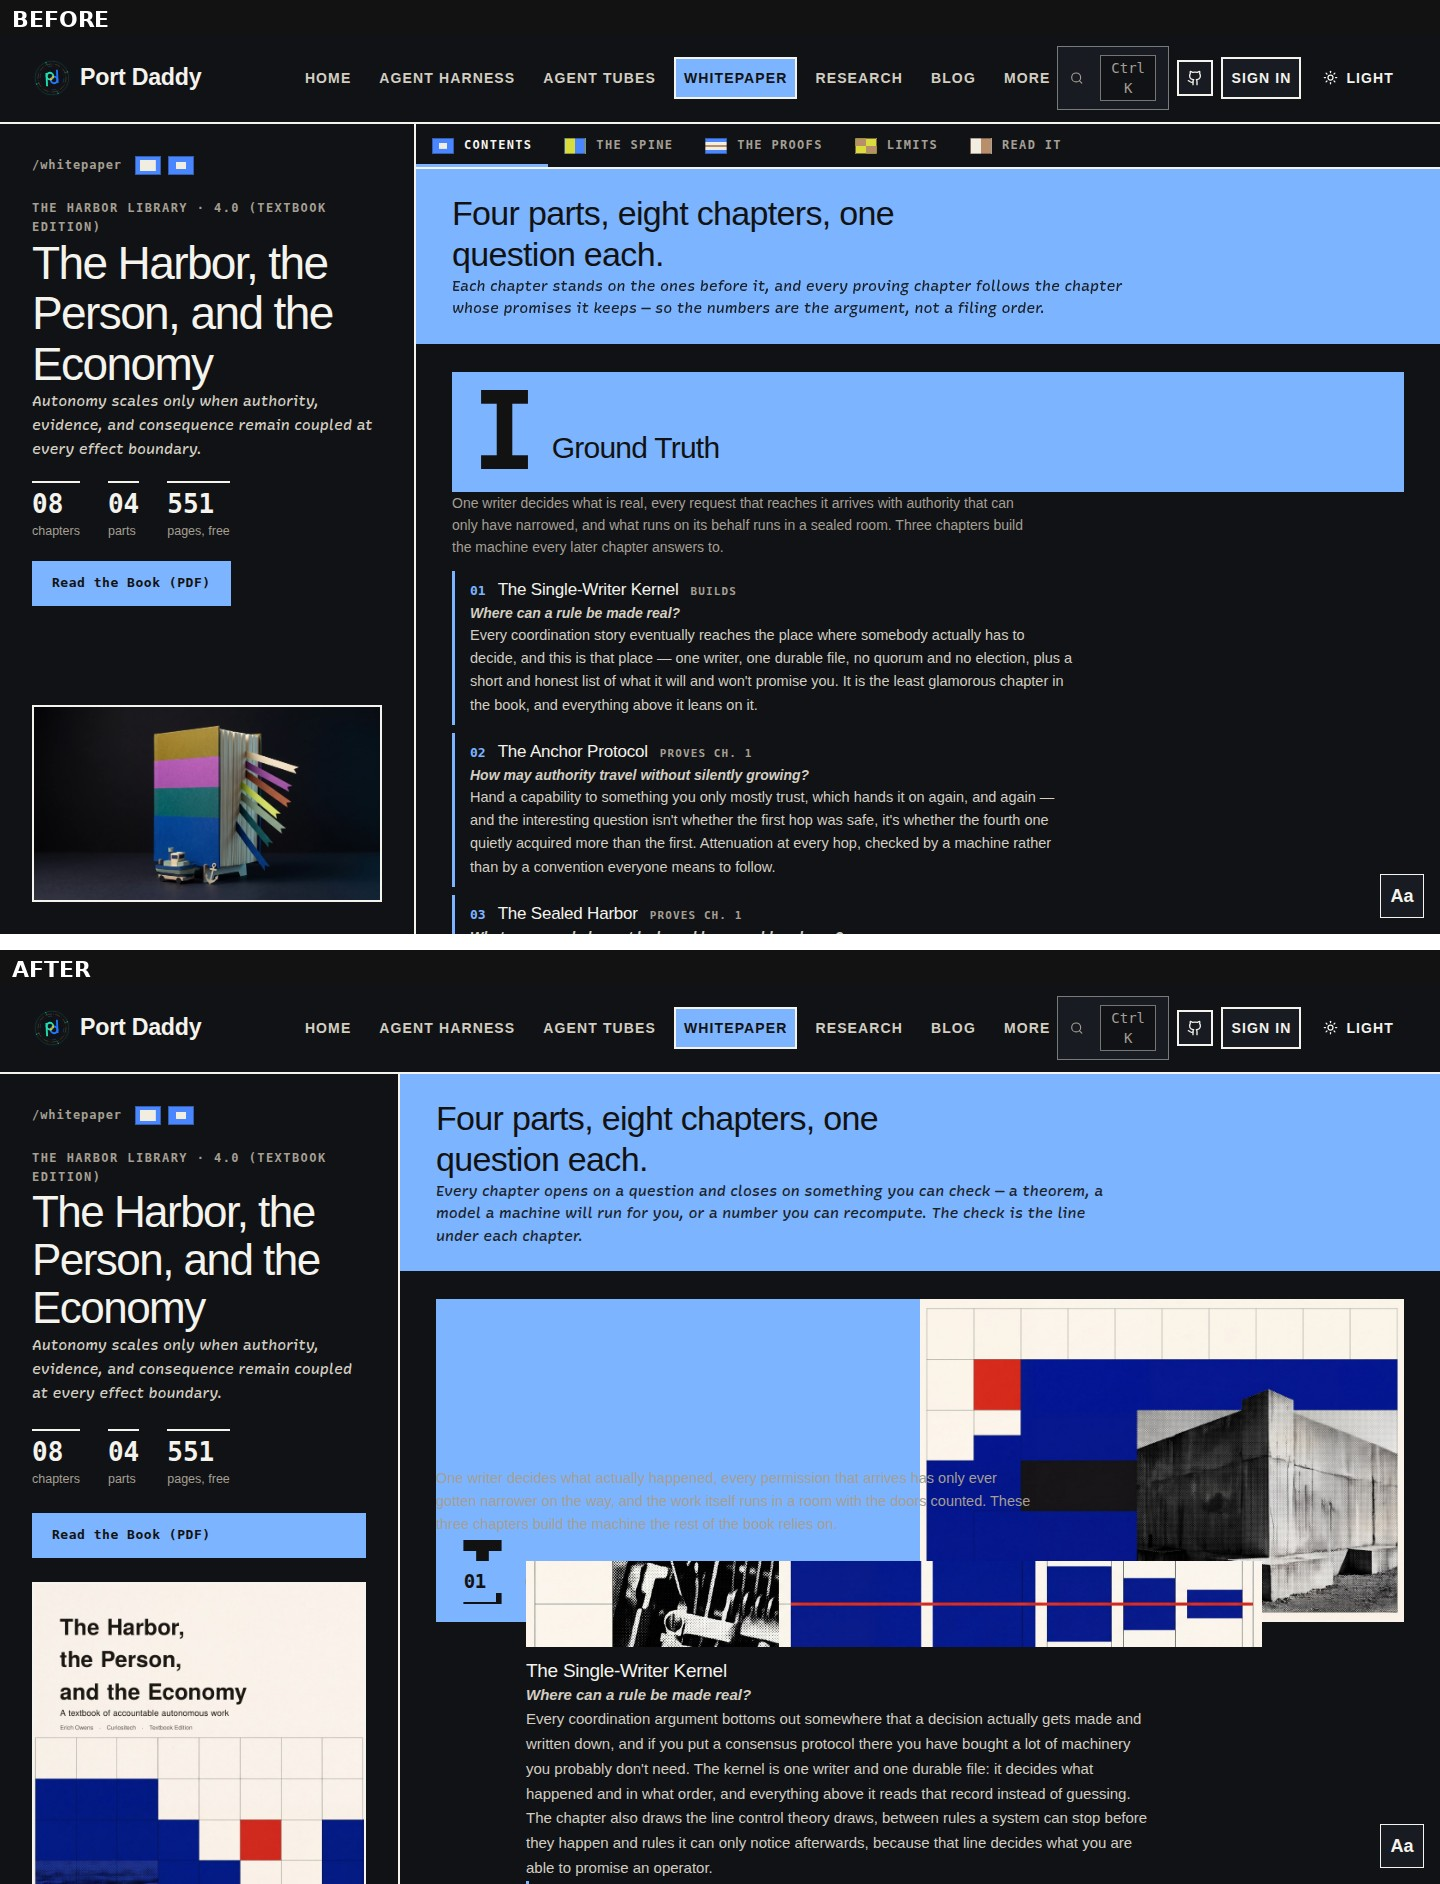
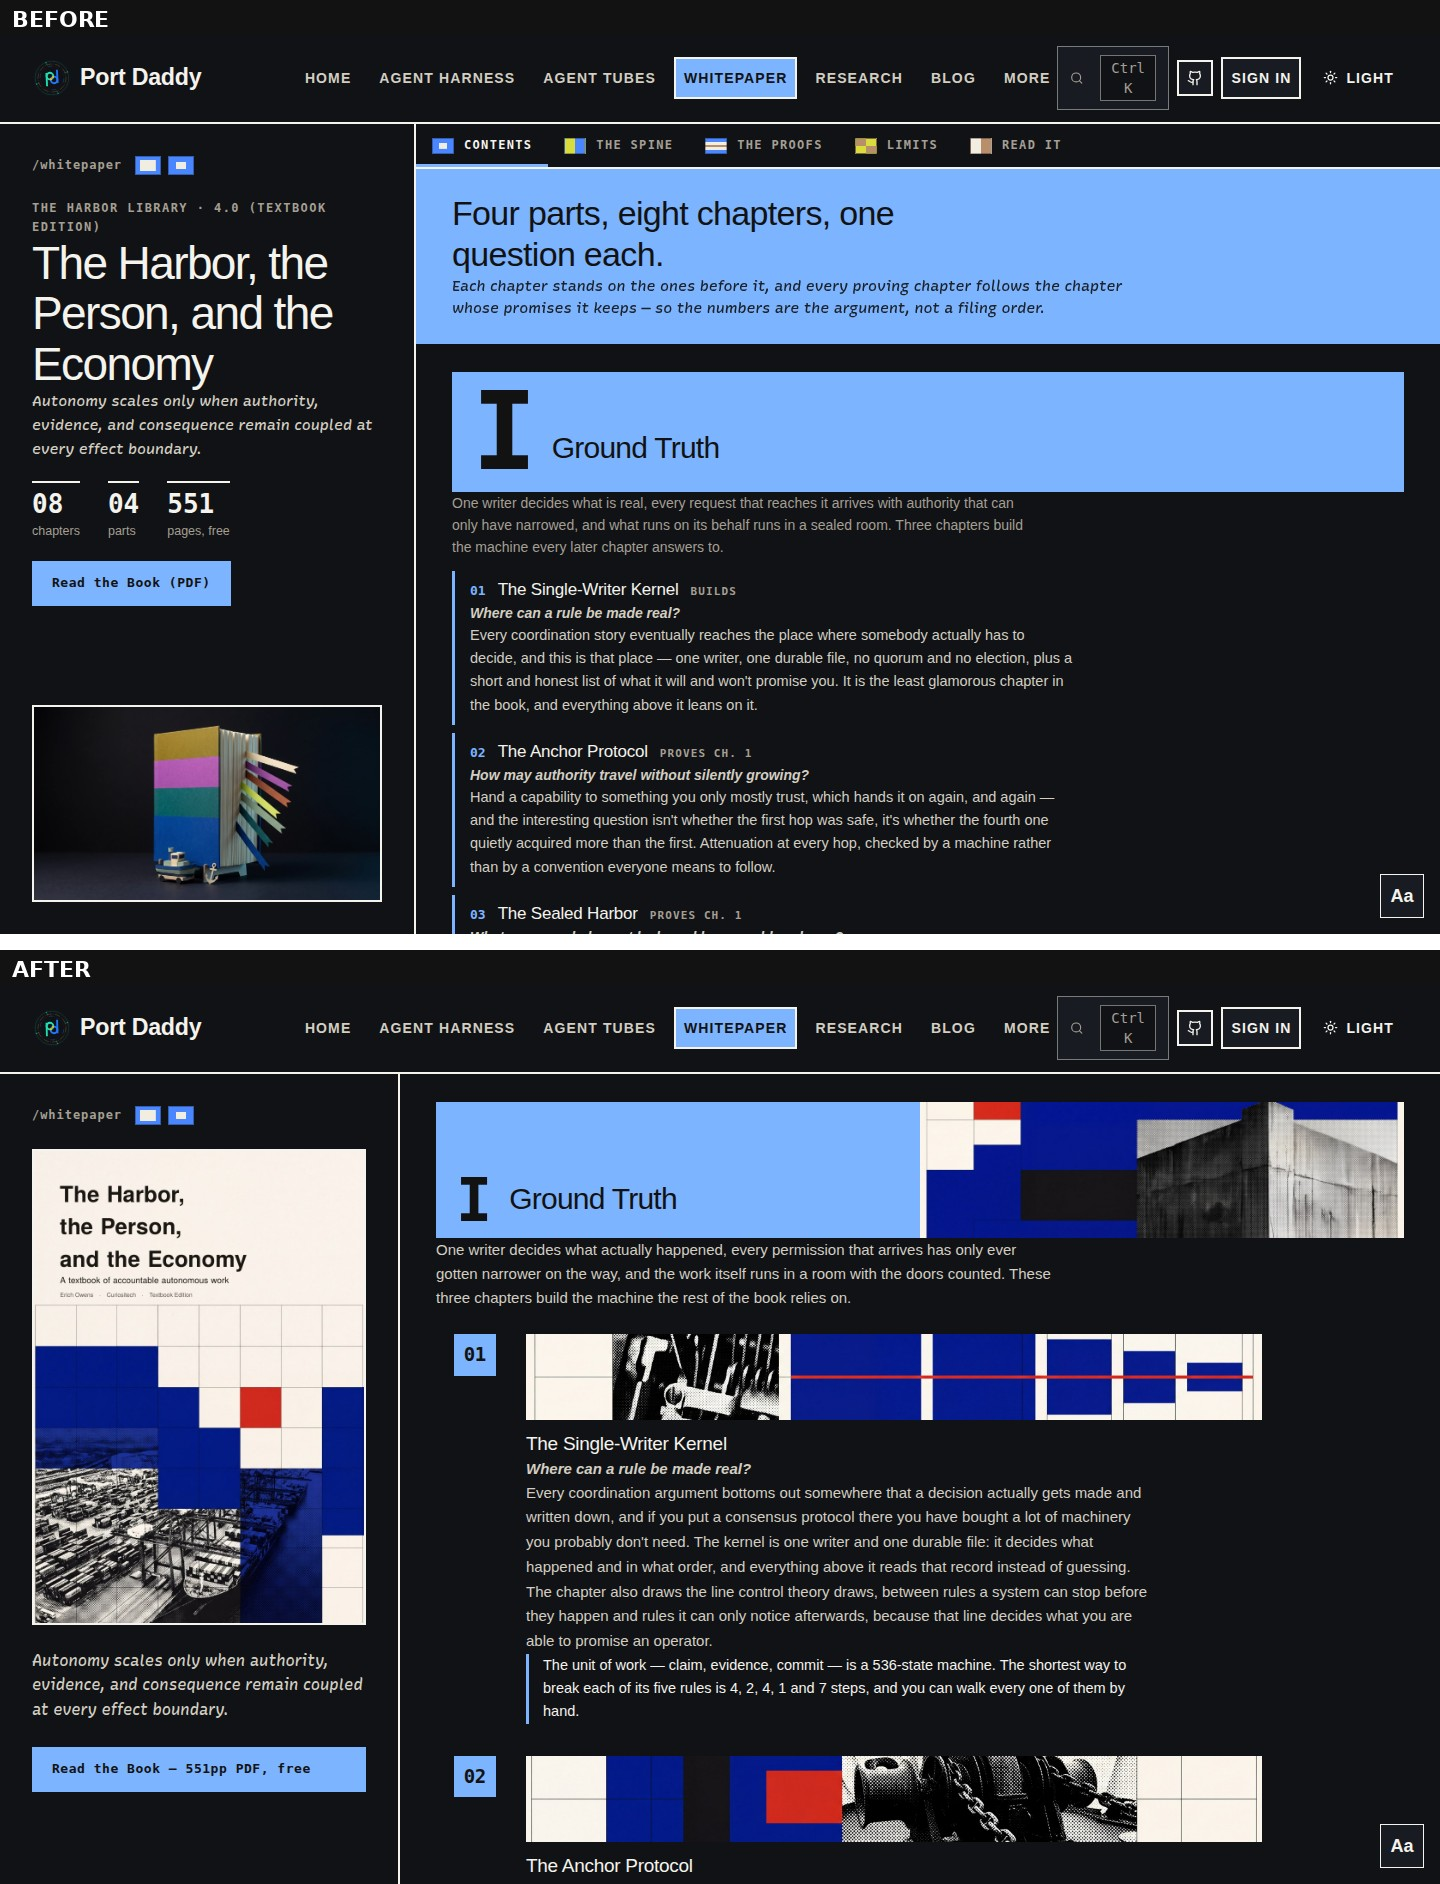
fix(site): the cover says the title, so the page stops saying it too
Three problems, all of them mine, all visible in the screenshot I posted
on the PR without looking at it.

The band overflowed. Capping the part row at a fixed 168px did not clip
its contents -- the slab's numeral and title spilled out the bottom and
painted over the part blurb underneath, in a colour chosen for a dark
ground. The plate is capped now and the slab sets the row's height, which
is the shape that worked before I "tightened" it.

The blurb was --text-muted, which on the dark ground is barely present
even when nothing is painted over it. It is --text-secondary, the body
tone, like every other paragraph on the page.

And the page was repeating itself. The masthead set the title, the
subtitle and the edition in type directly beside a cover that carries all
three in type already; the right pane opened with a headline counting the
parts the outline was about to list, over a paragraph explaining what a
chapter is. A count of parts is not a reason to read anything and the
outline shows it anyway. So: the cover IS the title, the claim and the
download stay, and the outline starts at the outline. The eyebrow, the
duplicate h1, the chapters/parts/pages counters and the format explainer
are gone.

The download button was also mt-auto'd to the foot of a scrolling column,
which put the one thing to do below the fold. It sits under the claim.

Also moves book-cover.jpg out of plates/ and beside the PDF it is
[…]

Changed region(s): [[0.0, 0.5541, 1.0, 1.0]]

diff --git a/website-v2/src/pages/whitepaper/index.tsx b/website-v2/src/pages/whitepaper/index.tsx
@@ -1,4 +1,4 @@
-import { Eyebrow, Slab } from '@/components/swiss'
+import { Slab } from '@/components/swiss'
 import {
   chapterRecordFor,
   COLLECTED_VOLUME,
@@ -91,8 +91,13 @@ export default function WhitepaperPage() {
     <main id="main-content">
       <div className="flex flex-col overflow-hidden bg-[var(--surface-base)] lg:h-[100dvh]">
         <div className="grid min-h-0 flex-1 grid-cols-1 lg:grid-cols-[minmax(0,25rem)_minmax(0,1fr)]">
-          {/* The masthead never moves: title, claim, the three numbers, the
-              one thing to do, and the cover. */}
+          {/* The masthead. The cover IS the title -- it carries the title,
+              the subtitle and the author in type already, so setting them
+              again beside it was the same words twice. What is left is the
+              cover, the one sentence the Book argues, and the thing to do.
+              The edition eyebrow and the chapters/parts/pages counters went
+              with the duplicate title: a count of parts is not a reason to
+              read anything, and the outline on the right shows both. */}
           <div className="flex min-h-0 flex-col gap-6 overflow-y-auto border-b-2 border-[var(--border-strong)] px-6 py-6 lg:border-b-0 lg:border-r-2 lg:px-8 lg:py-8">
             <div className="slug-hoist" aria-hidden="true">
               <span className="route">/whitepaper</span>
@@ -100,71 +105,36 @@ export default function WhitepaperPage() {
               <i className="fl fl-papa" />
             </div>
 
-            <div>
-              <Eyebrow>The Harbor Library · {TEXTBOOK.edition.version}</Eyebrow>
-              <h1 className="mt-2 max-w-[17ch] text-[clamp(30px,3.2vw,44px)] font-bold leading-[1.04] tracking-[-0.035em] text-[var(--text-primary)]">
-                {TEXTBOOK.edition.title}
-              </h1>
-              <p className="deck-voice mt-3 max-w-[44ch] text-[15px] leading-[1.6] text-[var(--text-secondary)]">
-                {TEXTBOOK.edition.claim}
-              </p>
-            </div>
+            {/* Page 1 of the committed PDF, rendered by
+                scripts/render-book-cover.mjs. One image in both themes on
+                purpose: a cover is an object, and inverting it for dark mode
+                would show a book that does not exist. */}
+            <img
+              className="block h-auto w-full border-2 border-[var(--border-strong)]"
+              src="/whitepaper/book-cover.jpg"
+              width={770}
+              height={1100}
+              alt={`${TEXTBOOK.edition.title}: ${TEXTBOOK.edition.subtitle}. The title set in grotesk over a container terminal in halftone, cut into a blue and red modular grid.`}
+              loading="eager"
+              decoding="async"
+            />
 
-            <div className="flex flex-wrap gap-x-7 gap-y-3">
-              {[
-                { n: String(TEXTBOOK.chapters.length).padStart(2, '0'), l: 'chapters' },
-                { n: String(TEXTBOOK.parts.length).padStart(2, '0'), l: 'parts' },
-                { n: String(COLLECTED_VOLUME.pages), l: 'pages, free' },
-              ].map((stat) => (
-                <div key={stat.l} className="border-t-2 border-[var(--border-strong)] pt-2">
-                  <div className="font-mono text-[26px] font-bold leading-none text-[var(--text-primary)]">
-                    {stat.n}
-                  </div>
-                  <div className="mt-1 text-[12.5px] text-[var(--text-muted)]">{stat.l}</div>
-                </div>
-              ))}
-            </div>
+            <p className="deck-voice max-w-[42ch] text-[15.5px] leading-[1.6] text-[var(--text-secondary)]">
+              {TEXTBOOK.edition.claim}
+            </p>
 
             <a
               href={COLLECTED_VOLUME.downloadUrl}
               className="inline-block bg-[var(--brand-primary)] px-5 py-3 font-mono text-[13px] font-bold tracking-[0.04em] text-[var(--brand-primary-foreground)] no-underline"
             >
-              Read the Book (PDF)
+              Read the Book — {COLLECTED_VOLUME.pages}pp PDF, free
             </a>
-
-            {/* The cover is page 1 of the committed PDF, rendered by
-                scripts/render-book-cover.mjs. It is one image in both themes
-                on purpose: a cover is a physical object, and inverting it for
-                dark mode would be showing a book that does not exist. */}
-            <figure className="mt-auto border-2 border-[var(--border-strong)]">
-              <img
-                className="block h-auto w-full"
-                src="/whitepaper/plates/book-cover.jpg"
-                width={770}
-                height={1100}
-                alt="The cover: the title set in grotesk over a container terminal in halftone, cut into a blue and red modular grid."
-                loading="lazy"
-                decoding="async"
-              />
-            </figure>
           </div>
 
-          {/* The outline. One head, then everything, and only this scrolls. */}
+          {/* The outline. No head block: it carried a headline counting the
+              parts and a paragraph explaining what a chapter is, and the
+              outline underneath says both by existing. Only this scrolls. */}
           <div className="flex min-h-0 flex-col">
-            <div
-              className="on-block shrink-0 px-6 py-5 lg:px-9 lg:py-6"
-              style={{ background: 'var(--brand-primary)', color: 'var(--brand-primary-foreground)' }}
-            >
-              <h2 className="max-w-[24ch] text-[clamp(22px,2.4vw,34px)] font-bold leading-[1.08] tracking-[-0.02em]">
-                Four parts, eight chapters, one question each.
-              </h2>
-              <p className="deck-voice mt-2 max-w-[64ch] text-[15px] leading-[1.5] opacity-90">
-                Every chapter opens on a question and closes on something you can check —
-                a theorem, a model a machine will run for you, or a number you can
-                recompute. The check is the line under each chapter.
-              </p>
-            </div>
-
             <div className="min-h-0 flex-1 overflow-y-auto px-6 py-6 lg:px-9 lg:py-7">
               <div className="space-y-8">
                 {TABLE_OF_CONTENTS.map((part) => (
@@ -178,9 +148,9 @@ export default function WhitepaperPage() {
                         as one band rather than an image next to a heading.
                         Below 900px the plate goes: at that width it would be a
                         70px letterbox, which is showing nothing. */}
-                    <div className="grid h-[168px] items-stretch md:grid-cols-2">
+                    <div className="grid items-stretch md:grid-cols-2">
                       <Slab slug={part.slug} className="grid grid-cols-[auto_1fr] items-end gap-x-5 px-5 py-4">
-                        <span className="font-mono text-[clamp(52px,7vw,88px)] font-bold leading-[0.74] tracking-[-0.05em]">
+                        <span className="font-mono text-[clamp(40px,4.6vw,60px)] font-bold leading-[0.74] tracking-[-0.05em]">
                           {part.numeral}
                         </span>
                         <h2 className="pb-[0.18em] text-[clamp(20px,2.6vw,30px)] font-bold leading-[1.02] tracking-[-0.025em]">
@@ -193,10 +163,10 @@ export default function WhitepaperPage() {
                         aria-hidden="true"
                         loading="lazy"
                         decoding="async"
-                        className="hidden h-full w-full object-cover md:block"
+                        className="hidden h-full max-h-[136px] w-full object-cover md:block"
                       />
                     </div>
-                    <p className="mt-3 max-w-[76ch] text-[14.5px] leading-[1.6] text-[var(--text-muted)]">
+                    <p className="mt-3 max-w-[76ch] text-[15px] leading-[1.6] text-[var(--text-secondary)]">
                       {part.blurb}
                     </p>
                     <div className="mt-2">

diff --git a/website-v2/src/components/landing/LibraryBanner.tsx b/website-v2/src/components/landing/LibraryBanner.tsx
@@ -26,7 +26,7 @@ export function LibraryBanner() {
       <PageContainer width="wide">
         <div className="flex items-center gap-4 py-2">
           <img
-            src="/whitepaper/plates/book-cover.jpg"
+            src="/whitepaper/book-cover.jpg"
             width={770}
             height={1100}
             loading="lazy"

diff --git a/changelog.d/10141-swiss-design-system-lift.md b/changelog.d/10141-swiss-design-system-lift.md
@@ -3,4 +3,4 @@ type: changed
 - **The Swiss visual system moves from `/whitepaper` into the design system, so any page can use it.** Three primitives — `Slab` (a flat block of a part's ink carrying paper-coloured content), `PartNumeral` (the oversized chapter-numeral device), and `Eyebrow` (the small-caps label) — now live in `website-v2/src/components/swiss/`, and the role-layer tokens they read (`--part-machine`, `--part-operator`, `--part-person`, `--part-market`, each with a paper-coloured `-on` pair) join `tokens.roles.css`, named by what the part means rather than by the Book's LaTeX colour name. The page's own `PART_INK` lookup table — mapping `pdcobalt`/`pdteal`/`pdviolet`/`pdgold` to a token pair — is deleted rather than moved: `whitepaper/textbook.json` gains a `slug` field on every part (validated by `generate-mega-whitepaper.mjs` as a unique lowercase word), so a surface derives a part's ink mechanically as `var(--part-${slug})` with nothing left to drift. `/whitepaper` renders unchanged in both themes.
 - **The part role layer is now checked end to end, so a typo cannot quietly unstyle a page.** `generate-mega-whitepaper.mjs` validates that each part's `webRoleAlias` is *shaped* like a CSS custom property, but nothing confirmed the token it names exists — so `--story-golld` would pass, generate `var(--story-golld)`, paint the Market part's slab with nothing at all, and leave every build green. `npm run test:part-roles` walks the whole indirection instead: every part slug has both halves of its `--part-*` pair, every pair names a part that still exists, every alias resolves to a token that is really defined and defined in *both* themes, and every literal `<Slab slug="…">` in the site names a real part. It runs in the `whitepaper-metadata` workflow on any change to the textbook data, the token files, or the Swiss primitives.
 - **`/whitepaper` drops its five sub-menus and shows the findings instead.** Four of the five — Contents, The Spine, The Proofs, Read it — were the same eight chapters listed again under a different heading, and the fifth repeated the masthead's download button, so a reader who wanted the table of contents had to guess which tab it was. The rail is gone and the outline gets the whole panel: four parts, eight chapters, and under each chapter the concrete thing it settles (the 5.98-bit floor, δ\* ≈ 0.3425, the consistency radius of 1.2247, the ProVerif run that broke card v6). The "proves ch. N" tags go with it — a chapter is a chapter. Every part carries its own plate and every chapter its own opener plate, the same files the Book prints.
-- **The site shows the Book's actual cover.** The home strip was still advertising the watercolour jacket a week after the Swiss edition became the central one, because nothing derived the site's copy from the Book. `scripts/render-book-cover.mjs` renders page 1 of the committed PDF, `--check` fails when the two have drifted, and the strip itself is now a 52px thumbnail on one line instead of a 170px block of a home page that cannot spare it.
+- **The site shows the Book's actual cover.** The home strip was still advertising the watercolour jacket a week after the Swiss edition became the central one, because nothing derived the site's copy from the Book. `website-v2/scripts/render-book-cover.mjs` renders page 1 of the committed PDF, `--check` fails when the two have drifted, and the strip itself is now a 52px thumbnail on one line instead of a 170px block of a home page that cannot spare it.
